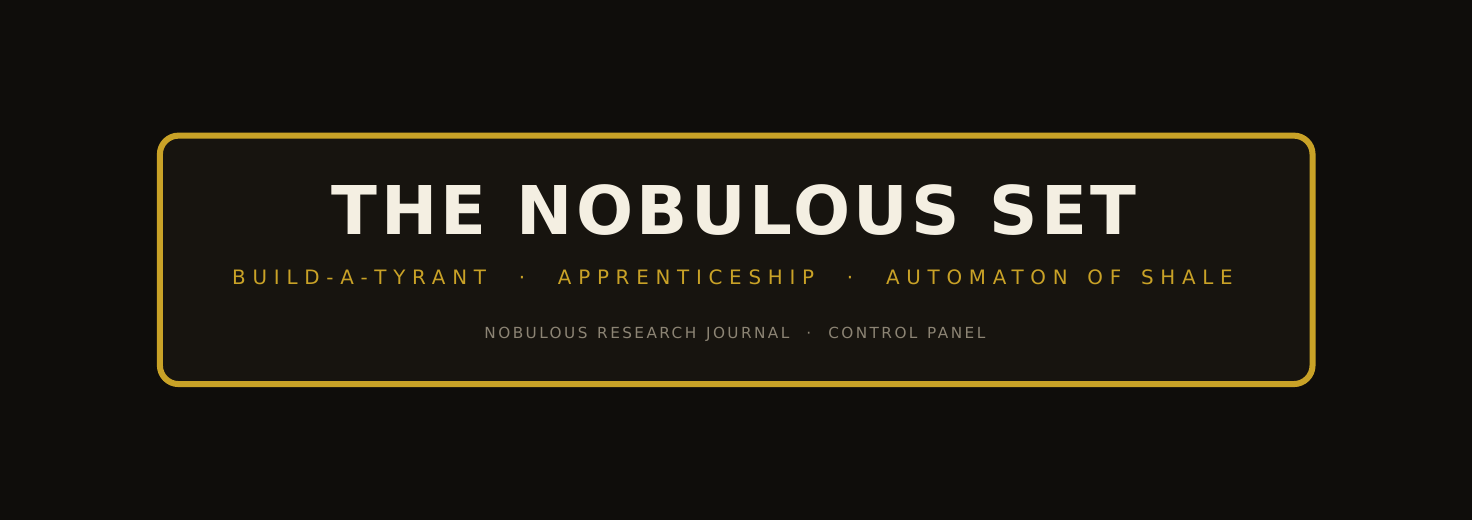
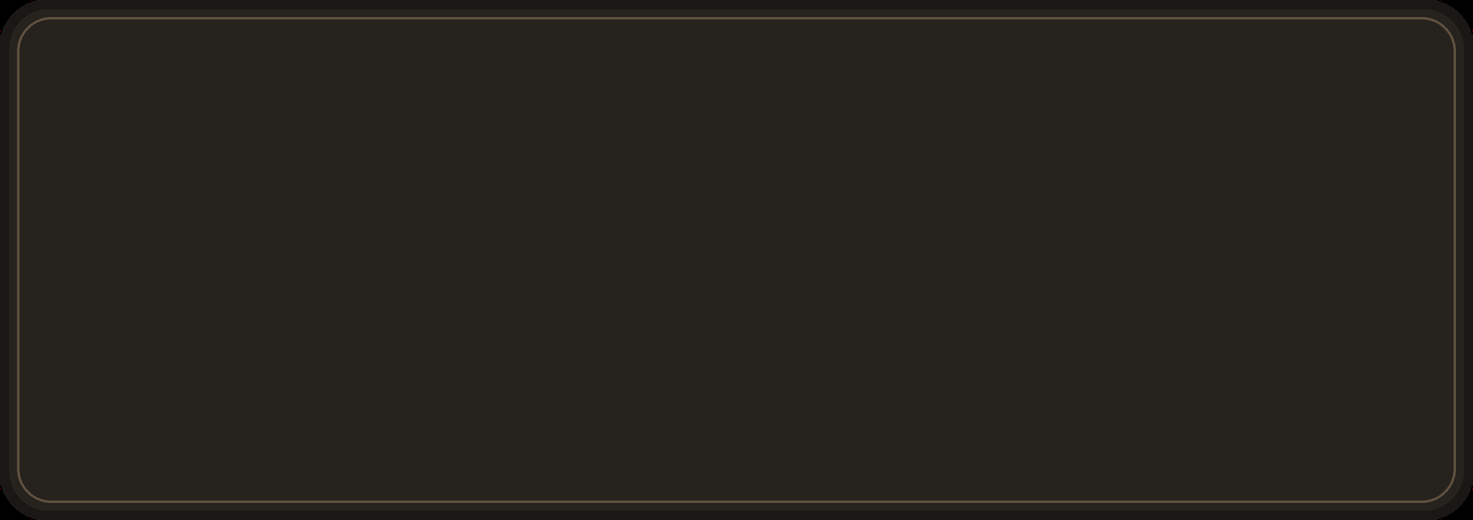
Stock table, bigger cards, grouped dice, and pack-up that finishes
Reported from the table, in one pass:

TABLE. The save asked for Table_Custom and carried no URL for one, so TTS
offered to import a custom table on every load. Table_Rectangle.

PACK-UP left exactly one card out after every setup - the Opportunist
after NAP, the Technician and an element mat after AoS, an Imposter after
the finale. Nothing in the arithmetic was wrong: TTS drops objects fed to
a bag faster than it animates them, and pack-up handed it twenty in one
frame. It sweeps four times now, a few frames apart, and names anything
still out instead of leaving it lying there. test_setup.py refuses one
bag put in N so the bug is a regression test, and a single pass is proven
to fail it.

CARD SIZE. A die has to fit a Buff HP box, which is about 15% of a card's
width, so the cards are at 2.6. One constant owns it and the Lua spaces
every row in multiples of CARD_W and CARD_L, which that constant
generates - the Rats touch at exactly one landscape card, and the NAP
Time Slots stop overlapping, which they did because 7 units stopped being
a card when the cards grew.

DICE. Each colour had four dice stepping 1.1 apart with only 2 between
colours, so every colour's second die stood on the next colour's first.
One 2x2 block per colour, blocks 5 apart, the utility dice in a row.

PANEL MAT. ControlPanel.png printed THE NOBULOUS SET and three game
names, every one of which refreshPanel covered with buttons. It is a
[…]

diff --git a/tts/build_mod.py b/tts/build_mod.py
@@ -37,6 +37,20 @@ USED = set()
 
 # The four boxes, left to right. IMP's two decks live in the NRJ box: the
 # Imposter Scenario is NRJ's finale, not a fifth game.
+# HOW BIG A CARD IS, and everything downstream of that.
+#
+# A die has to fit in a Buff HP box. That card prints a 3x5 grid of boxes
+# each about 15% of the card's width; a TTS card is roughly 2.4 units wide
+# and a TTS die about 0.9 across, so a box at scale 1 is 0.37 units and
+# will not take one. 0.9 / (0.15 * 2.4) is 2.5, and 2.6 leaves a margin.
+#
+# TUNE IT HERE AND NOWHERE ELSE. The Lua lays the table out in multiples
+# of CARD_W and CARD_L, which are derived below and generated into it, so
+# the rows respace themselves rather than needing 30 literals edited.
+CARD_SCALE = 2.6
+CARD_W = 2.4 * CARD_SCALE          # a portrait card, across
+CARD_L = 3.35 * CARD_SCALE         # a landscape card, across
+
 BOX_ORDER = ['BAT', 'NAP', 'AoS', 'NRJ']
 BOX_TITLE = {'BAT': 'BAT  Build-a-Tyrant',
              'NAP': 'NAP  Apprenticeship Program',
@@ -102,6 +116,9 @@ def lua_header(box_guids):
         '-- Box GUIDs come from the save being built; the two card-index',
         '-- tables are read out of generator/build_nap.py and build_nrj.py.',
         '-- Edit build_mod.py, never this block.',
+        'CARD_SCALE = %.2f' % CARD_SCALE,
+        'CARD_W = %.3f' % CARD_W,
+        'CARD_L = %.3f' % CARD_L,
         'BOX = { %s }' % j("%s = '%s'" % (g, box_guids[g]) for g in BOX_ORDER),
         'HOME = { %s }' % j("['%s'] = '%s'" % (k, v) for k, v in sorted(home.items())),
         'NAP_CREDIT = { %s }' % j('%s = {%s}' % (k, j(str(i) for i in v))
@@ -115,7 +132,7 @@ def lua_header(box_guids):
 def box(game, contained, x):
     r, g, b = GAME_COLOR[game]
     return {"GUID": guid(), "Name": "Bag",
-            "Transform": xf(x, 2.0, 20.0, (0, 0, 0), 1.6),
+            "Transform": xf(x, 2.0, 18.0, (0, 0, 0), 1.6),
             "Nickname": BOX_TITLE[game],
             "Description": "%d decks. A setup button takes out what it needs."
                            % len(contained),
@@ -170,7 +187,7 @@ def build_deck(d, deck_id, pos):
         ids.append(deck_id * 100 + i)
     r, g, b = GAME_COLOR[d['game']]
     obj = {"GUID": guid(), "Name": "Deck" if d['count'] > 1 else "CardCustom",
-           "Transform": xf(pos[0], pos[1], pos[2], (0, 180, 180)),
+           "Transform": xf(pos[0], pos[1], pos[2], (0, 180, 180), CARD_SCALE),
            "Nickname": d['label'],
            "Description": "%s  |  %d cards" % (d['game'], d['count']),
            "ColorDiffuse": {"r": 1.0, "g": 1.0, "b": 1.0},
@@ -186,7 +203,7 @@ def build_deck(d, deck_id, pos):
 
 def panel():
     return {"GUID": guid(), "Name": "Custom_Tile",
-            "Transform": xf(0, 0.96, 14, (0, 180, 0), 3.4),
+            "Transform": xf(0, 0.96, 12, (0, 180, 0), 2.6),
             "Nickname": "Control Panel",
             "Description": "Setup and counters for The Nobulous Set",
             "ColorDiffuse": {"r": 0.93, "g": 0.91, "b": 0.85},
@@ -204,17 +221,26 @@ def dice_objects():
     src = json.load(open(os.path.join(os.path.dirname(
         os.path.abspath(__file__)), 'dice_objects.json')))
     out = []
-    lay = {'Purple': (-16, -14), 'Blue': (-14, -14), 'Green': (-12, -14),
-           'Yellow': (-10, -14), 'Pink': (-8, -14),
-           'Health': (-16, -17), 'Strategy': (-14, -17), 'Recovery': (-12, -17),
-           'Chip': (-10, -17)}
+    # ONE BLOCK PER COLOUR. The colours used to sit 2 apart with their
+    # four dice stepping 1.1 each, so every colour's second die stood on
+    # the next colour's first and the pool read as one heap. Each colour
+    # now gets a 2x2 block of its own with a clear gap between blocks.
+    BLOCK = {'Purple': -21.0, 'Blue': -16.0, 'Green': -11.0,
+             'Yellow': -6.0, 'Pink': -1.0}
+    OFFS = ((0.0, 0.0), (1.4, 0.0), (0.0, -1.4), (1.4, -1.4))
+    lay = {'Health': (-21.0, -19.5), 'Strategy': (-18.0, -19.5),
+           'Recovery': (-15.0, -19.5), 'Chip': (-12.0, -19.5)}
     seen = {}
     for o in src:
         nick = o.get('Nickname') or 'Die'
         seen[nick] = seen.get(nick, 0) + 1
-        bx, bz = lay.get(nick, (-6, -17))
+        if nick in BLOCK:
+            ox, oz = OFFS[(seen[nick] - 1) % len(OFFS)]
+            bx, bz = BLOCK[nick] + ox, -15.5 + oz
+        else:
+            bx, bz = lay.get(nick, (-6.0, -19.5))
         d = {"GUID": guid(), "Name": o['Name'],
-             "Transform": xf(bx + (seen[nick] - 1) * 1.1, 1.4, bz, (0, 0, 0)),
+             "Transform": xf(bx, 1.4, bz, (0, 0, 0)),
              "Nickname": 'Red' if nick == 'Pink' else nick,
              "Description": o.get('Description') or '',
              "ColorDiffuse": o.get('ColorDiffuse') or {"r": 1, "g": 1, "b": 1},
@@ -409,7 +435,7 @@ def main():
             build_deck(d, i + 1, (0, 2.0, 0)))
     box_guids = {}
     for n, game in enumerate(BOX_ORDER):
-        bx = box(game, grouped[game], -18.0 + n * 12.0)
+        bx = box(game, grouped[game], -16.5 + n * 11.0)
         box_guids[game] = bx['GUID']
         objects.append(bx)
     objects.append(panel())
@@ -418,7 +444,10 @@ def main():
     save = {
         "SaveName": "The Nobulous Set",
         "GameMode": "The Nobulous Set - BAT / NAP / AoS / NRJ",
-        "Gravity": 0.5, "PlayArea": 0.8, "Date": "", "Table": "Table_Custom",
+        "Gravity": 0.5, "PlayArea": 0.8, "Date": "",
+        # Table_Custom made TTS ask to import a custom table image on every
+        # load, and the save carries no URL for one.
+        "Table": "Table_Rectangle",
         "Sky": "Sky_Museum", "Note": "Fan expansion for 20 Strong. Prototype.",
         "Rules": "See the Notebook.",
         "TabStates": {str(i): t for i, t in enumerate(notebook())},

diff --git a/generator/check_app_sync.py b/generator/check_app_sync.py
@@ -1829,6 +1829,47 @@ check("tts/test_setup.py asserts the buttons do not overlap each other",
       "def overlaps" in text("tts/test_setup.py")
       and "nothing overlaps" in text("tts/test_setup.py"))
 
+# ---------------------------------------------------------------------
+# THE TABLE, THE CARD SIZE AND PACK-UP, all reported from the table on
+# 2026-11-09.
+# The SETTING, not the word: the comment above it names Table_Custom as
+# the thing it replaced, and matching bare "Table_Custom" failed on that.
+check("the mod builds on a stock table",
+      '"Table": "Table_Rectangle"' in _mod
+      and '"Table": "Table_Custom"' not in _mod)
+# One constant owns how big a card is, and the Lua spaces the rows in
+# multiples of it. Thirty position literals is how a layout stops being
+# changeable at all.
+check("one constant owns how big a card is",
+      "CARD_SCALE = " in _mod and "(0, 180, 180), CARD_SCALE)" in _mod
+      and "'CARD_W = %.3f' % CARD_W" in _mod)
+check("tts/lua.lua spaces the table in card widths, not literals",
+      all(k in _lua for k in ("ROW_CHAR", "ROW_MAIN", "ROW_SIDE",
+                              "function col(i)", "CARD_L", "CARD_W")))
+# The Rats are one row, and a gap between them reads as four things.
+check("the Lab Rats are dealt touching",
+      "ROW_CHAR, FACEUP, CARD_L)" in _lua)
+# TTS drops objects fed to a bag faster than it animates them, which left
+# exactly one card on the table after every setup. tts/test_setup.py
+# refuses one bag put in N and proves a single pass fails.
+check("pack up sweeps more than once",
+      "for _ = 1, 4 do step(sweep) end" in _lua
+      and "Still on the table: " in _lua)
+check("tts/test_setup.py models a bag that drops what it is handed",
+      "self.lossy" in text("tts/test_setup.py")
+      and "dropping 1 in" in text("tts/test_setup.py"))
+# The dice are a pool, not a heap: one block per colour, blocks apart.
+check("the dice are grouped by colour",
+      "BLOCK = {" in _mod and "OFFS = (" in _mod
+      and "(seen[nick] - 1) * 1.1" not in _mod)
+# The panel art is generated now, so the shape the layout depends on has
+# a source rather than being a hand-drawn PNG nobody can regenerate.
+_panel = text("generator/make_panel.py")
+check("the control-panel mat has a source",
+      "W, H = 1473, 520" in _panel and "ControlPanel.png" in _panel)
+check("the panel mat matches the aspect the layout is built for",
+      abs((1473.0 / 520.0) - _half_x) < 0.001)
+
 
 def _lua_rows(name, levels):
     """The named Lua table, level -> tuple of its numbers."""

diff --git a/tts/test_setup.py b/tts/test_setup.py
@@ -103,6 +103,15 @@ class Obj(object):
     def putObject(self, other):
         if other is None:
             raise RuntimeError("putObject(nil) into %r" % self.name)
+        if self.bag and self.world.lossy:
+            # TTS DROPS OBJECTS FED TO A BAG FASTER THAN IT ANIMATES THEM.
+            # One pass of pack-up over twenty cards left exactly one on
+            # the table every time, and the stub could not see it because
+            # a Python list never refuses an append. Refusing one in N
+            # reproduces the bug, so the fix for it stays tested.
+            self.world.puts += 1
+            if self.world.puts % self.world.lossy == 0:
+                return other
         self.world.table.pop(other.guid, None)
         if other.kids and not self.bag:
             self.kids.extend(other.kids)     # deck into deck merges, as TTS does
@@ -119,6 +128,8 @@ class World(object):
         self.table = {}        # guid -> object currently out on the table
         self.said = []
         self.shuffled = set()
+        self.lossy = 0          # refuse one bag put in N, like TTS does
+        self.puts = 0
         self.rng = random.Random(7)
 
     def add(self, o):
@@ -334,11 +345,18 @@ def panel_assertions():
          ["Easy", "Standard", "Hard", "Nobulous", "Easy"])
     want("tier cycle", tiers, [0, 1, 2, 3, 0])
 
-    # Pack up has to leave the table bare, loose cards included.
-    w, g = start("Nobulous", 3, Panel())
-    g.setupNAP()
-    want("pack up emptied the table", (len(w.table) > 0, g.packUp(False),
-                                       len(w.table))[2], 0)
+    # Pack up has to leave the table bare, loose cards included - and it
+    # has to do it when the bag refuses some of what it is handed, which
+    # is what left one card out after every setup in the real game.
+    for lossy in (0, 3, 5):
+        w, g = start("Nobulous", 3, Panel())
+        g.setupNAP()
+        dealt = len(w.table)
+        w.lossy = lossy
+        g.packUp(False)
+        g.run()
+        want("pack up emptied the table, dropping 1 in %d" % lossy,
+             (dealt > 0, len(w.table))[1], 0)
 
 
 def main():

diff --git a/generator/make_panel.py b/generator/make_panel.py
@@ -1,0 +1,47 @@
+"""Draw the TTS control-panel mat into images/ControlPanel.png.
+
+    python3 make_panel.py
+
+The mat was a hand-drawn PNG with no source, kept by name in deploy.py's
+EXTRA_IMAGES so --prune could not remove it. It printed THE NOBULOUS SET
+and three game names, every one of which the script then covered with
+buttons - the title row was removed from the panel precisely because the
+art already said it, and then the art was hidden anyway.
+
+So it is a plain mat now: a dark rounded panel with a thin rule, no text.
+The ASPECT IS LOAD-BEARING. The tile is "Stretch": true, so the image's
+proportions ARE the tile's local space: 2.833 by 1 here, which is what
+refreshPanel lays its four rows out inside and what check_app_sync.py
+recomputes from this file. Change the shape and the buttons move.
+"""
+import os
+
+from PIL import Image, ImageDraw
+
+W, H = 1473, 520
+RADIUS = 46
+BACK = (26, 23, 20)
+EDGE = (92, 80, 62)
+INNER = (38, 34, 29)
+
+HERE = os.path.dirname(os.path.abspath(__file__))
+OUT = os.path.join(os.path.dirname(HERE), "images", "ControlPanel.png")
+
+
+def main():
+    im = Image.new("RGBA", (W * 2, H * 2), (0, 0, 0, 0))
+    d = ImageDraw.Draw(im)
+    d.rounded_rectangle([0, 0, W * 2 - 1, H * 2 - 1], RADIUS * 2, fill=BACK)
+    d.rounded_rectangle([18, 18, W * 2 - 19, H * 2 - 19], RADIUS * 2 - 12,
+                        fill=INNER)
+    # One hairline inset, which is all the decoration a mat under four rows
+    # of buttons can carry without showing between them.
+    d.rounded_rectangle([34, 34, W * 2 - 35, H * 2 - 35], RADIUS * 2 - 24,
+                        outline=EDGE, width=5)
+    im = im.resize((W, H), Image.LANCZOS)
+    im.convert("RGB").save(OUT, optimize=True)
+    print("wrote %s  %dx%d" % (OUT, W, H))
+
+
+if __name__ == "__main__":
+    main()

diff --git a/generator/deploy.py b/generator/deploy.py
@@ -58,8 +58,12 @@ TTS_MAX = 4096
 # input and these are ours.
 Image.MAX_IMAGE_PIXELS = None
 
-# Lives in images/ and is NOT generated - the TTS control panel was drawn by
-# hand. So it is kept rather than copied, and never pruned.
+# Lives in images/ and is not built by a build_*.py, so it is kept rather
+# than copied and never pruned. It DOES have a source now: make_panel.py
+# draws it. It was a hand-drawn PNG printing THE NOBULOUS SET and three
+# game names, every one of which refreshPanel then covered with buttons.
+# Its ASPECT is load-bearing - the tile is "Stretch": true, so the image's
+# proportions are the panel's local space.
 EXTRA_IMAGES = ("ControlPanel.png",)
 # Anything living in playtest/dist/assets with no source in rules/ would be
 # named here and kept rather than pruned. It held AoS_Full_Rules.pdf until
